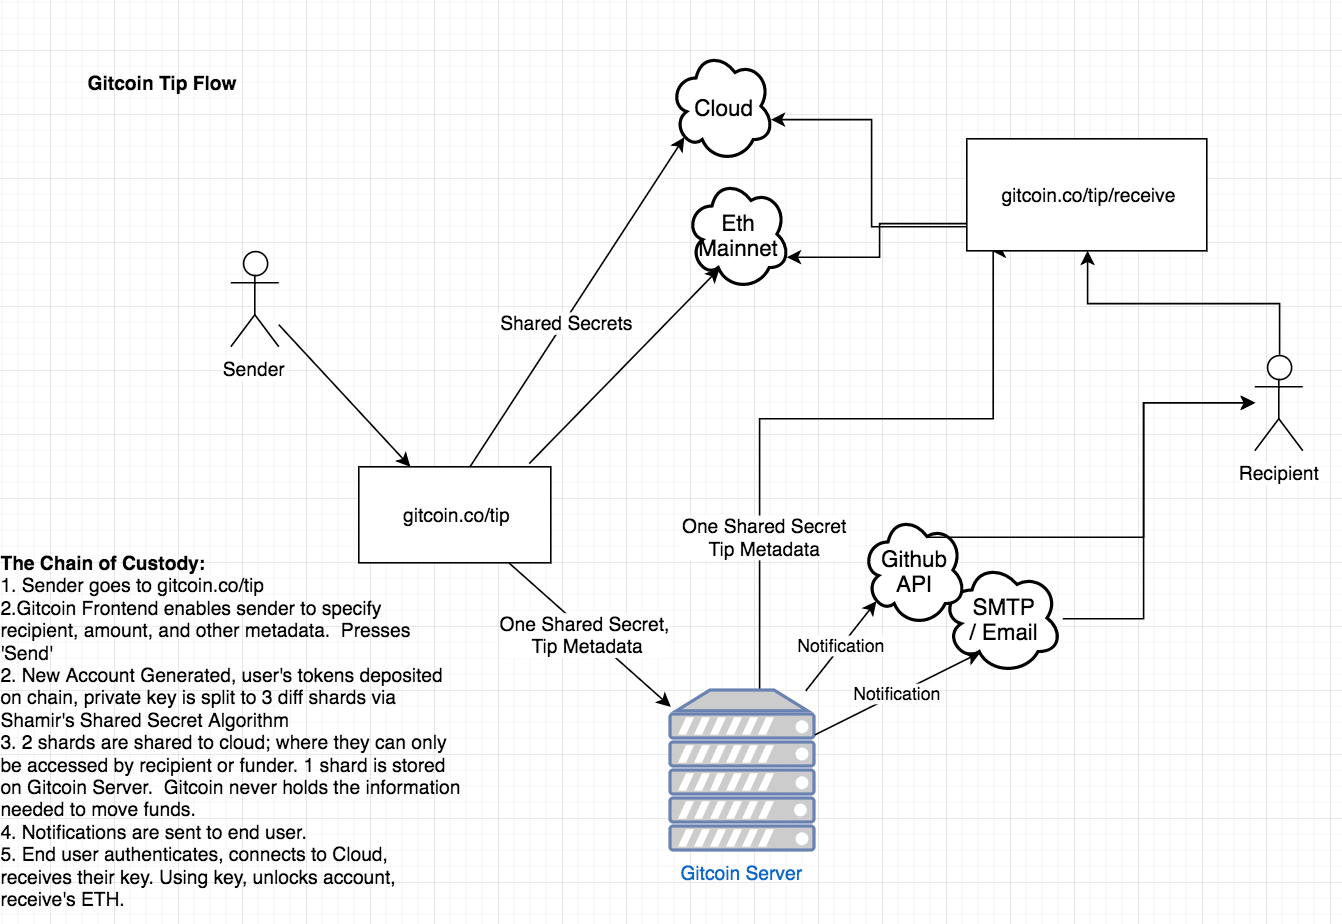
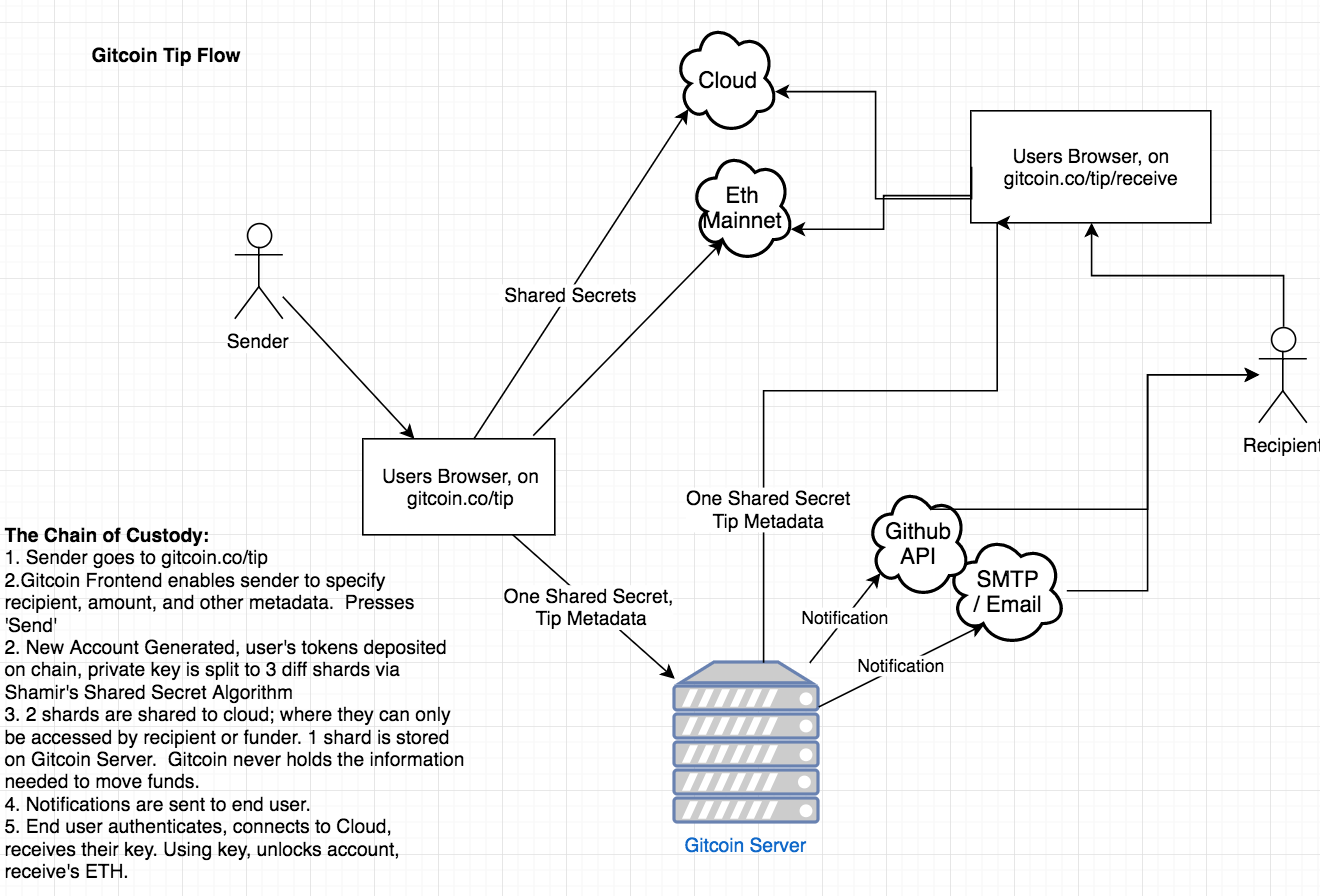
tip flow

diff --git a/docs/README.md b/docs/README.md
@@ -123,17 +123,31 @@ Gitcoinbot will allow you to add issues straight from github.
 
 Have an ERC20 compatible token that you'ud like to add support for?  Great!  Submit [this form](https://gitcoin.co/submittoken) to submit it to the system
 
-## High Level flow of a Bounty
+## High Level flows
+
+### of a Bounty
 
 This is the high level flow of a bounty on Gitcoin:
 
-<img src='bounty_flow.png'>
+<a href="https://www.draw.io/?state=%7B%22ids%22:%5B%221FTatOur159qS8pzBCgIG5E0XdEH8iZF-%22%5D,%22action%22:%22open%22,%22userId%22:%22115514289174042120922%22%7D#G1FTatOur159qS8pzBCgIG5E0XdEH8iZF-"><img src='bounty_flow.png'></a>
 
-## High Level flow of a Tip
+Chain of Custody
+
+1. Bounty Funder's Wallet
+2. [StandardBounties Smart Contract](https://github.com/Bounties-Network/StandardBounties)
+3. (Submission Made)
+4. (Submission Accepted)
+5. Recipient's Wallet 
+
+Anywhere between 2 and 4 above, Funder may withdraw their funds via 'Cancel Bounty' function for any reason. 
+
+We may introduce Arbitration [via Delphi](http://delphi.network/) at some point in the future.  Until then, we are lucky that Github users are very protective of their reputation, and therefore very kind to each other, and disputes have not generally arisen.
+
+### of a Tip
 
 This is the high level flow of a bounty on Gitcoin:
 
-<img src='tip_flow.png'>
+<a href="https://www.draw.io/#G1sTJtQou5FYsHCabhb2JXHDTprpvvkUy0"><img src='tip_flow.png'></a>
 
 # Legal
 
